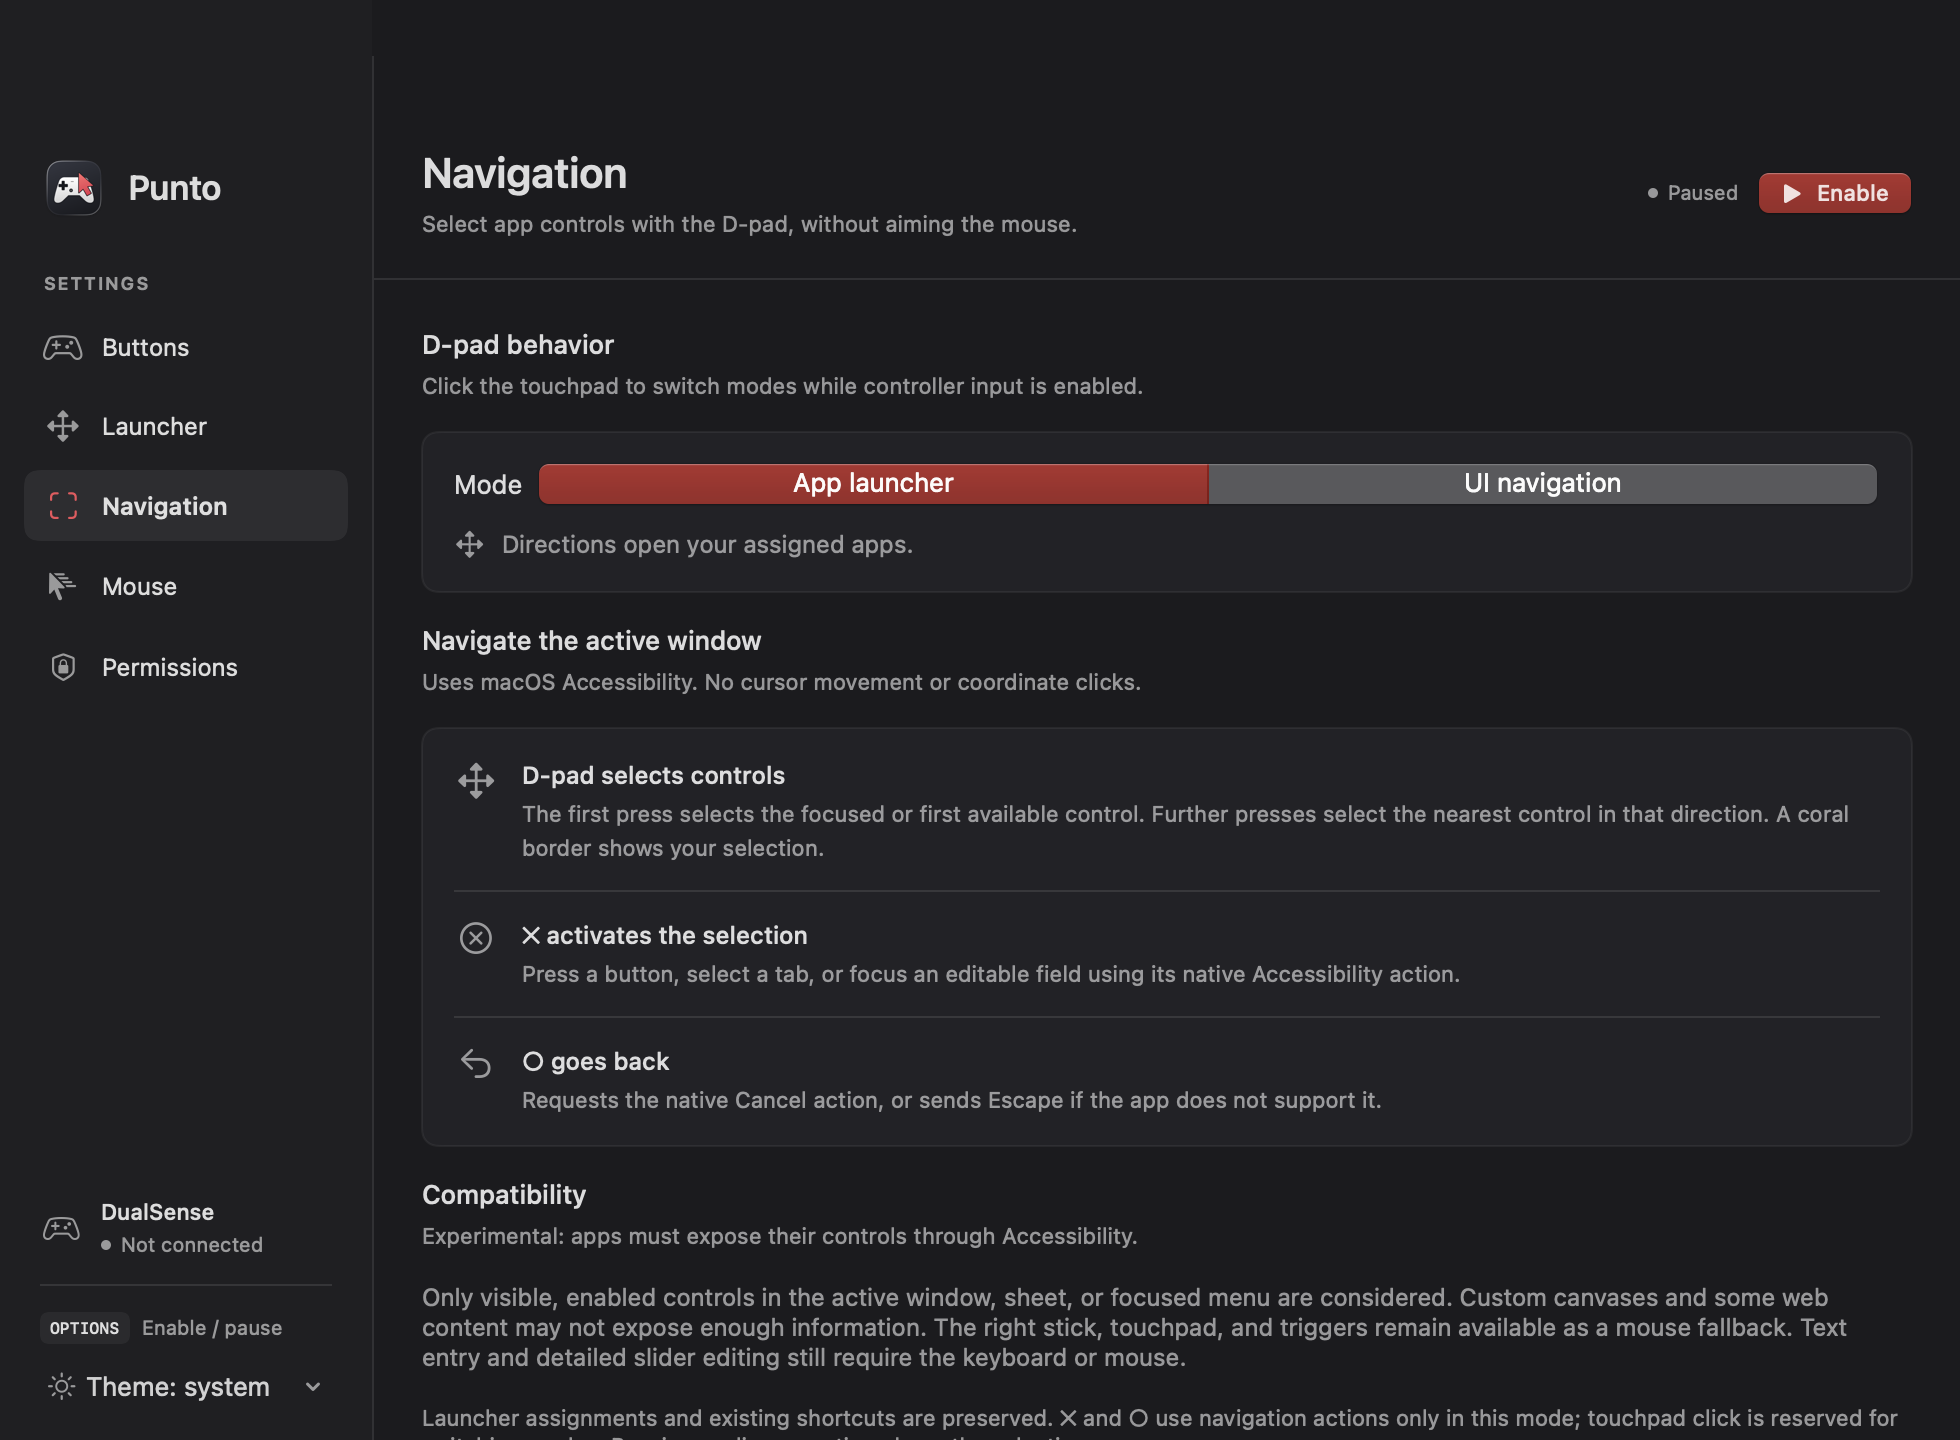
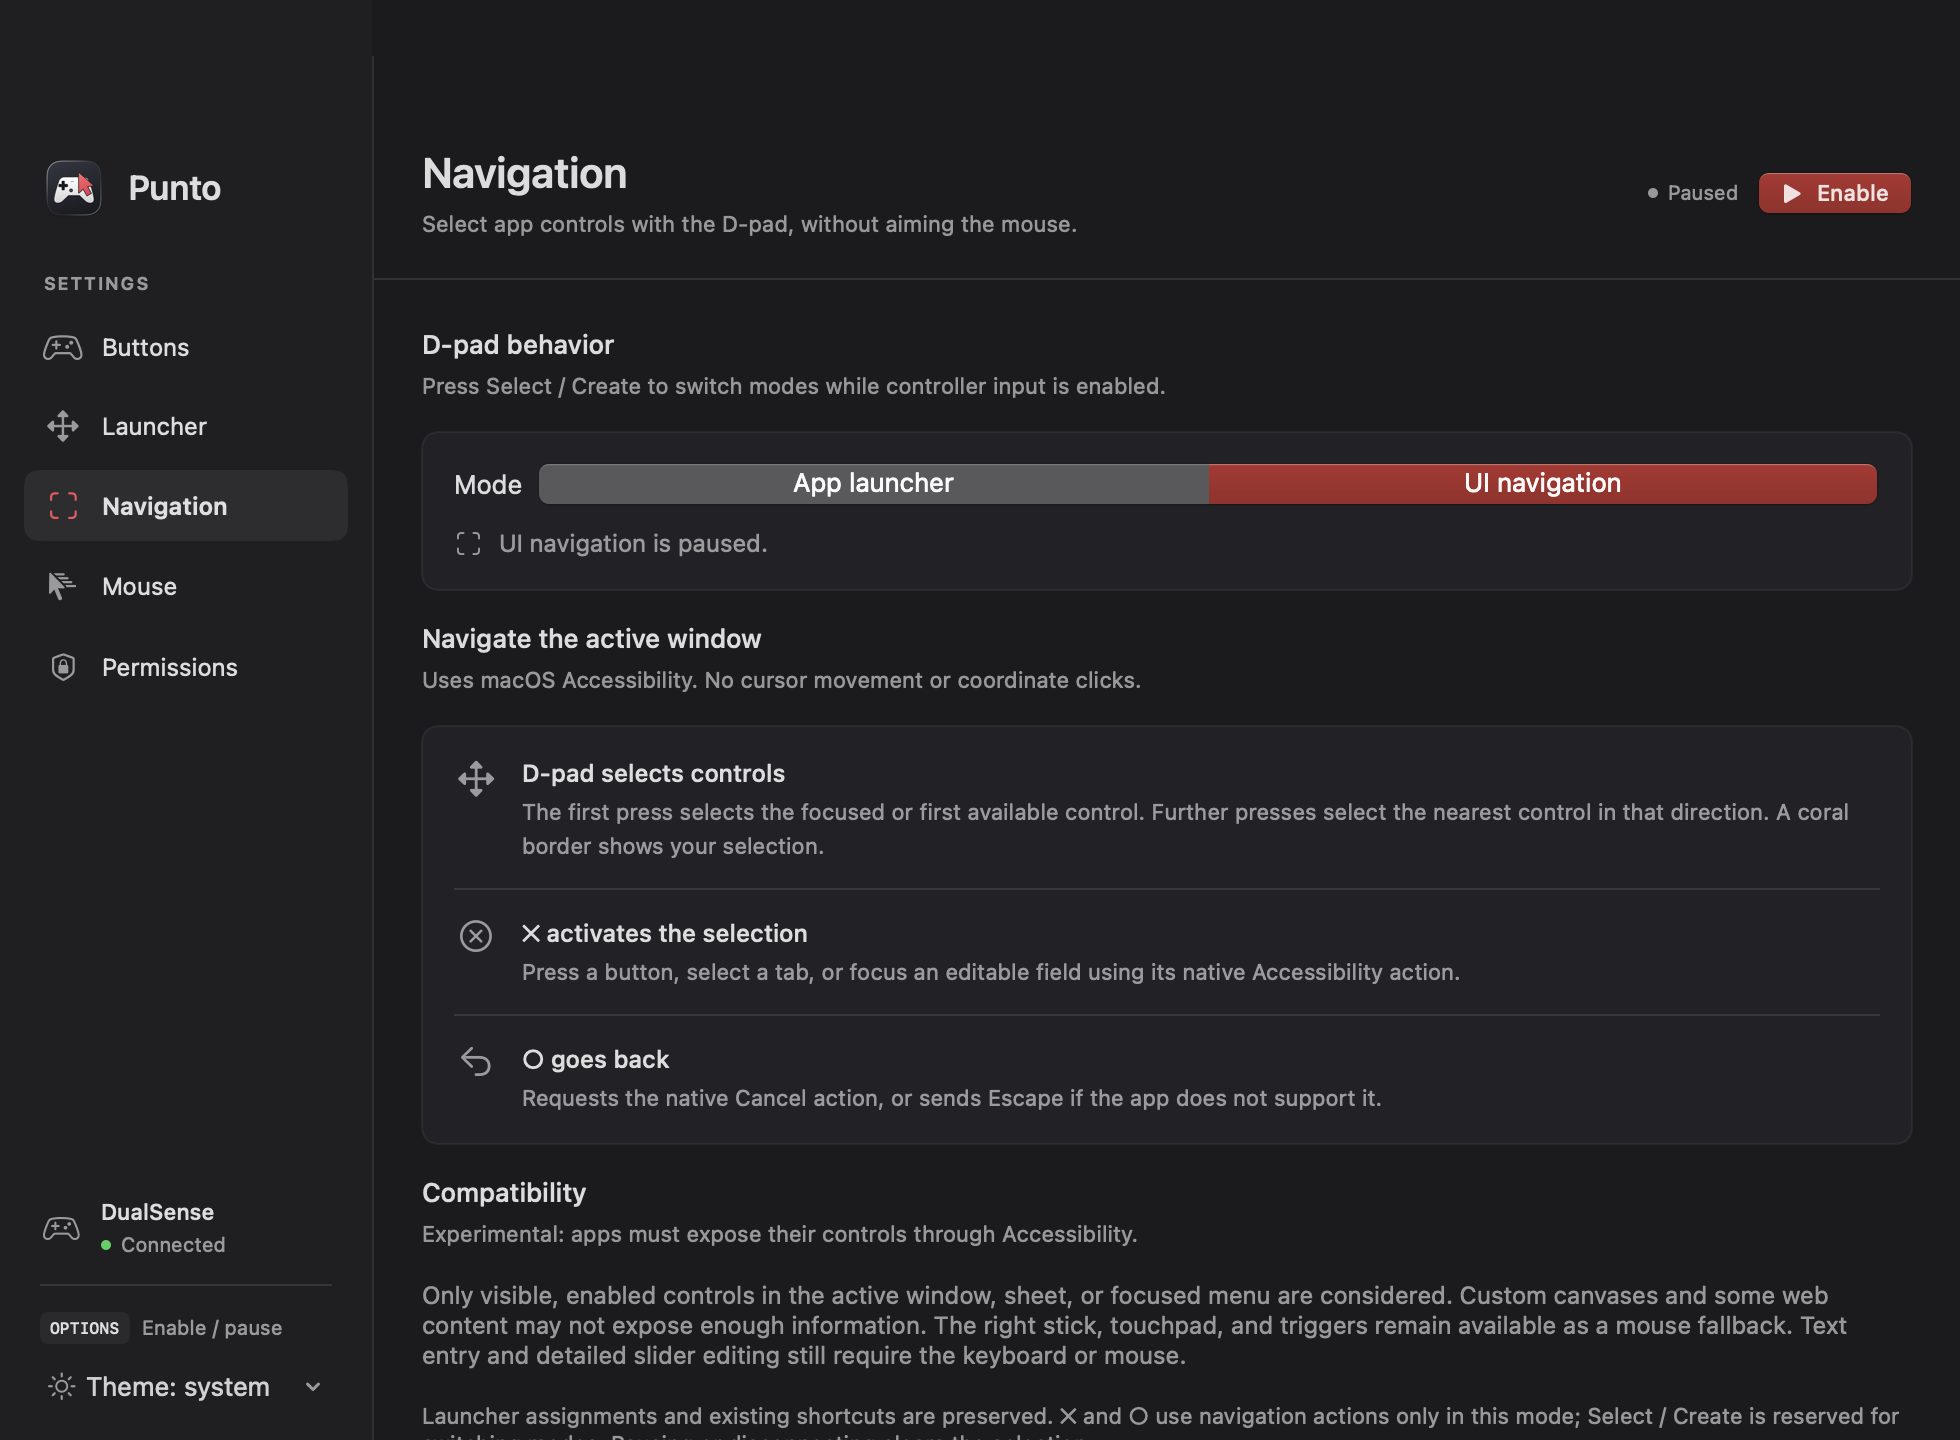
Use Select/Create to switch launcher and UI navigation modes

diff --git a/UI.swift b/UI.swift
@@ -322,7 +322,7 @@ private struct SettingsView: View {
             Divider()
             HStack(spacing: 8) {
                 Image(systemName: "info.circle").foregroundColor(.secondary)
-                Text("D-pad → Launcher / Navigation · Touchpad click → switch mode · Options → enable / pause")
+                Text("D-pad → Launcher / Navigation · Select / Create → switch mode · Options → enable / pause")
                     .font(.system(size: 10)).foregroundColor(.secondary)
                 Spacer(minLength: 0)
                 Button { showHelp.toggle() } label: { Image(systemName: "questionmark.circle").foregroundColor(.secondary) }.buttonStyle(.plain)
@@ -345,7 +345,7 @@ private struct SettingsView: View {
         }
     }
     @ViewBuilder private func buttonRow(_ setting: ButtonSetting) -> some View {
-        if setting.id == 5 || setting.id == 13 || (model.uiNavigationEnabled && (setting.id == 1 || setting.id == 2)) {
+        if setting.id == 5 || setting.id == 8 || (model.uiNavigationEnabled && (setting.id == 1 || setting.id == 2)) {
             HStack(spacing: 12) {
                 HStack(spacing: 9) {
                     Text(setting.glyph).font(.system(size: 11, weight: .medium)).foregroundColor(.secondary)
@@ -353,7 +353,7 @@ private struct SettingsView: View {
                     Text(setting.name).font(.system(size: 11, weight: .medium))
                 }.frame(width: 180, alignment: .leading)
                 Label(setting.primary, systemImage: setting.id == 5 ? "arrow.up.arrow.down" : setting.id == 2 ? "arrow.uturn.backward" : "viewfinder").font(.system(size: 11)).frame(maxWidth: .infinity, alignment: .leading)
-                Text(setting.id == 5 ? "Hold R1" : setting.id == 13 ? "Reserved" : "Navigation mode").font(.system(size: 11)).foregroundColor(.secondary).frame(maxWidth: .infinity, alignment: .leading)
+                Text(setting.id == 5 ? "Hold R1" : setting.id == 8 ? "Reserved" : "Navigation mode").font(.system(size: 11)).foregroundColor(.secondary).frame(maxWidth: .infinity, alignment: .leading)
             }.padding(.horizontal, 14).padding(.vertical, 11)
         } else {
         HStack(spacing: 12) {
@@ -441,7 +441,7 @@ private struct SettingsView: View {
     }
     private var navigationSettings: some View {
         VStack(alignment: .leading, spacing: 16) {
-            heading("D-pad behavior", detail: "Click the touchpad to switch modes while controller input is enabled.")
+            heading("D-pad behavior", detail: "Press Select / Create to switch modes while controller input is enabled.")
             VStack(alignment: .leading, spacing: 12) {
                 Picker("Mode", selection: Binding(get: { model.uiNavigationEnabled }, set: { model.controller.setUINavigationEnabled($0); model.refresh() })) {
                     Text("App launcher").tag(false)
@@ -461,7 +461,7 @@ private struct SettingsView: View {
             heading("Compatibility", detail: "Experimental: apps must expose their controls through Accessibility.")
             Text("Only visible, enabled controls in the active window, sheet, or focused menu are considered. Custom canvases and some web content may not expose enough information. The right stick, touchpad, and triggers remain available as a mouse fallback. Text entry and detailed slider editing still require the keyboard or mouse.")
                 .font(.system(size: 12)).foregroundColor(.secondary)
-            Text("Launcher assignments and existing shortcuts are preserved. ✕ and ○ use navigation actions only in this mode; touchpad click is reserved for switching modes. Pausing or disconnecting clears the selection.")
+            Text("Launcher assignments and existing shortcuts are preserved. ✕ and ○ use navigation actions only in this mode; Select / Create is reserved for switching modes. Pausing or disconnecting clears the selection.")
                 .font(.system(size: 11)).foregroundColor(.secondary)
         }
     }

diff --git a/main.m b/main.m
@@ -37,7 +37,7 @@ static void hold_event(int index,HoldEvent event){[currentApp holdEvent:index ev
 - (NSString *)pathKey:(NSInteger)index {return [NSString stringWithFormat:@"app%ld",(long)index];}
 - (NSString *)shortcutKey:(NSInteger)index {return [NSString stringWithFormat:@"shortcut%ld",(long)index];}
 - (NSString *)holdKey:(NSInteger)index {return [NSString stringWithFormat:@"holdShortcut%ld",(long)index];}
-- (BOOL)validButton:(NSInteger)index {return index>=0&&index<19&&index!=9&&index!=5&&index!=13;}
+- (BOOL)validButton:(NSInteger)index {return index>=0&&index<19&&index!=9&&index!=5&&index!=8;}
 - (void)applicationDidFinishLaunching:(NSNotification *)note {
     (void)note;currentApp=self;
     NSUserDefaults *d=NSUserDefaults.standardUserDefaults;PadMacMigrateShortcuts(d);
@@ -76,7 +76,7 @@ static void hold_event(int index,HoldEvent event){[currentApp holdEvent:index ev
 }
 - (NSDictionary *)settingsSnapshot {
     NSUserDefaults *d=NSUserDefaults.standardUserDefaults;
-    NSArray *names=@[@"Square",@"Cross",@"Circle",@"Triangle",@"Left bumper · L1",@"Right bumper · R1",@"Left trigger · L2",@"Right trigger · R2",@"Create",@"Options",@"Left stick · L3",@"Right stick · R3",@"PS button",@"Touchpad click",@"Mute",@"D-pad up",@"D-pad right",@"D-pad down",@"D-pad left"];
+    NSArray *names=@[@"Square",@"Cross",@"Circle",@"Triangle",@"Left bumper · L1",@"Right bumper · R1",@"Left trigger · L2",@"Right trigger · R2",@"Select / Create",@"Options",@"Left stick · L3",@"Right stick · R3",@"PS button",@"Touchpad click",@"Mute",@"D-pad up",@"D-pad right",@"D-pad down",@"D-pad left"];
     NSArray *glyphs=@[@"□",@"✕",@"○",@"△",@"L1",@"R1",@"L2",@"R2",@"≡",@"…",@"L3",@"R3",@"PS",@"▭",@"◌",@"↑",@"→",@"↓",@"←"];
     NSMutableArray *rows=[NSMutableArray new];
     for(int i=0;i<19;i++){
@@ -91,11 +91,11 @@ static void hold_event(int index,HoldEvent event){[currentApp holdEvent:index ev
         if(action==12)primary=PadMacShortcutLabel(shortcut)?:@"Record shortcut";
         if(action==11)primary=path.length?[NSFileManager.defaultManager displayNameAtPath:path]:@"Choose application";
         if(i==5){action=13;primary=@"Right stick → scroll";}
-        if(i==13){action=14;primary=@"Toggle UI navigation";}
+        if(i==8){action=14;primary=@"Toggle UI navigation";}
         if(self.navigationMode&&i==1){action=15;primary=@"Activate selection";}
         if(self.navigationMode&&i==2){action=16;primary=@"Back / Escape";}
         NSMutableDictionary *row=[@{@"id":@(i),@"name":names[i],@"glyph":glyphs[i],@"group":group,@"action":@(action),@"primary":primary} mutableCopy];
-        if(i!=5&&i!=13&&!(self.navigationMode&&(i==1||i==2))&&hold[@"label"])row[@"hold"]=PadMacShortcutLabel(hold);
+        if(i!=5&&i!=8&&!(self.navigationMode&&(i==1||i==2))&&hold[@"label"])row[@"hold"]=PadMacShortcutLabel(hold);
         if(action==11&&path.length)row[@"appPath"]=path;
         [rows addObject:row];
     }
@@ -150,7 +150,7 @@ static void hold_event(int index,HoldEvent event){[currentApp holdEvent:index ev
 }
 - (BOOL)handleButton:(int)index pressed:(BOOL)pressed {
     if(index<0){longpress_cancel(hold_event);[self hideLauncher];self.uiNavigation.active=NO;return YES;}
-    if(index==13){if(pressed)[self setUINavigationEnabled:!self.navigationMode];return YES;}
+    if(index==8){if(pressed)[self setUINavigationEnabled:!self.navigationMode];return YES;}
     if(self.navigationMode&&(index>=15||index==1||index==2)){
         self.uiNavigation.active=input_enabled()&&AXIsProcessTrusted();
         if(pressed){

diff --git a/tests/navigation-ui.m b/tests/navigation-ui.m
@@ -25,7 +25,7 @@ int main(void){@autoreleasepool{
     [NSApplication.sharedApplication setActivationPolicy:NSApplicationActivationPolicyAccessory];
     NSUserDefaults *defaults=NSUserDefaults.standardUserDefaults;
     NSDictionary *original=[defaults volatileDomainForName:NSArgumentDomain];
-    [defaults setVolatileDomain:@{@"launcherApps0":@[@"demo-app",@""],@"action1":@11,@"app1":@"cross-app",@"action2":@11,@"app2":@"circle-app",@"action13":@11,@"app13":@"old-touchpad-app"} forName:NSArgumentDomain];
+    [defaults setVolatileDomain:@{@"launcherApps0":@[@"demo-app",@""],@"action1":@11,@"app1":@"cross-app",@"action2":@11,@"app2":@"circle-app",@"action8":@11,@"app8":@"old-select-app",@"action13":@11,@"app13":@"touchpad-app"} forName:NSArgumentDomain];
     NavigationTestApp *app=[NavigationTestApp new];NavigationSpy *spy=[NavigationSpy new];app.uiNavigation=spy;currentApp=app;
     input_button_handler(handle_button);input_enable(true);
     [app setUINavigationEnabled:YES];
@@ -34,16 +34,17 @@ int main(void){@autoreleasepool{
     [app handleButton:1 pressed:YES];[app handleButton:1 pressed:NO];assert(spy.activations==1);
     [app handleButton:2 pressed:YES];[app handleButton:2 pressed:NO];assert(spy.backs==1&&!app.launchedPath);
     [app handleButton:5 pressed:YES];assert(input_scroll_active());[app handleButton:5 pressed:NO];
-    [app handleButton:13 pressed:YES];assert(!app.navigationMode&&!input_scroll_active());
-    [app handleButton:13 pressed:NO];assert(!app.navigationMode);
+    [app handleButton:8 pressed:YES];assert(!app.navigationMode&&!input_scroll_active());
+    [app handleButton:8 pressed:NO];assert(!app.navigationMode);
     [app handleButton:1 pressed:YES];assert([app.launchedPath isEqual:@"cross-app"]);
     [app handleButton:15 pressed:YES];assert(app.launcherPanel.isVisible&&[app.launchedPath isEqual:@"demo-app"]);
-    [app handleButton:13 pressed:YES];assert(app.navigationMode&&!app.launcherPanel.isVisible);
-    assert([defaults integerForKey:@"action13"]==11&&[[defaults stringForKey:@"app13"] isEqual:@"old-touchpad-app"]);
-    assert(![app validButton:13]);
+    [app handleButton:8 pressed:YES];assert(app.navigationMode&&!app.launcherPanel.isVisible);
+    assert([defaults integerForKey:@"action8"]==11&&[[defaults stringForKey:@"app8"] isEqual:@"old-select-app"]);
+    assert(![app validButton:8]&&[app validButton:13]);
+    [app handleButton:13 pressed:YES];assert([app.launchedPath isEqual:@"touchpad-app"]&&app.navigationMode);
     input_enable(false);assert(!spy.active);
     assert([[app settingsSnapshot][@"uiNavigation"] boolValue]);
     input_stop();input_button_handler(NULL);currentApp=nil;
     [defaults setVolatileDomain:original?:@{} forName:NSArgumentDomain];
-    puts("PASS: four-direction routing, activation/back, no shortcut leakage, touchpad mode switching, launcher restoration, pause and preserved assignments");
+    puts("PASS: four-direction routing, activation/back, no shortcut leakage, Select/Create mode switching and customizable touchpad, launcher restoration, pause and preserved assignments");
 }return 0;}

diff --git a/docs/DEVELOPMENT.md b/docs/DEVELOPMENT.md
@@ -105,7 +105,7 @@ Apps previously assigned to D-pad buttons are migrated into the first slot. Prev
 
 ### UI navigation (experimental)
 
-Select **Navigation → UI navigation**, or press **touchpad click** while controller input is enabled. Mode selection persists in `uiNavigation`; controller input still starts paused.
+Select **Navigation → UI navigation**, or press **Select / Create** (the small button to the left of the touchpad) while controller input is enabled. Mode selection persists in `uiNavigation`; controller input still starts paused.
 
 - The D-pad selects accessible controls in the frontmost app’s focused window, modal sheet, or focused menu. The first press selects the focused control if available, otherwise the first discovered control.
 - Subsequent presses rank element centers in a directional cone, favoring the same row or column. At a boundary the selection remains in place; it does not wrap.
@@ -116,7 +116,7 @@ Select **Navigation → UI navigation**, or press **touchpad click** while contr
 - Tree discovery runs on a serial background queue, capped at 2,000 elements and a 300 ms traversal budget, with 25 ms per-attribute messaging timeouts. Native actions have a separate 500 ms timeout. A single remote call may slightly exceed the traversal budget.
 - A lighter 250 ms poll tracks the selection. Activation rescans and revalidates the element, app, and window; stale elements are rejected rather than blindly clicked. Selection is retained if the control remains visible after activation. Some providers return an error even after dispatching an action; ambiguous results are shown as “Action requested” and are never retried automatically.
 - An eight-command queue preserves rapid presses. App/window changes discard queued commands. Generation checks invalidate pending actions on pause, disconnect, permission loss, or mode changes.
-- Switching modes releases held mouse buttons/keys and cancels long presses. Existing launcher, touchpad, ✕, and ○ assignments remain stored. Touchpad click is reserved; ✕ and ○ regain normal assignments outside navigation mode.
+- Switching modes releases held mouse buttons/keys and cancels long presses. Existing launcher, Select/Create, ✕, and ○ assignments remain stored. Select/Create is reserved; touchpad click is customizable; ✕ and ○ regain normal assignments outside navigation mode.
 - The right stick, touchpad movement, R1 scrolling, and trigger clicks remain available as a mouse fallback.
 
 This is not universal semantic navigation: app Accessibility providers determine coverage, grouping, visibility, and action support. Custom canvases and some browser content are incomplete. Text entry, complex slider editing, virtualized lists, and automatic scrolling to off-screen controls are not implemented. No window content or discovered control labels are logged or persisted by the runtime.
@@ -172,7 +172,7 @@ The fixture inspects and acts **only on its own window**, even if another app be
 - [ ] Tap/hold behavior and pausing before/after the threshold.
 - [ ] Automatic launcher opening, second slot, direction changes, and timeout.
 - [ ] No normal ✕/○ shortcut while the overlay is visible.
-- [ ] Touchpad click switches launcher/navigation without running its saved assignment.
+- [ ] Select/Create switches launcher/navigation without running its saved assignment; touchpad click runs its configured action.
 - [ ] Navigation selects controls spatially and activates them in the intended target apps.
 - [ ] The border does not take focus, intercept clicks, or appear in the Dock.
 - [ ] App/window changes, pause, disconnect, and permission loss clear the selection.

diff --git a/README.md b/README.md
@@ -70,7 +70,7 @@ Adjust cursor speed, stick deadzone, and scroll sensitivity. Scroll speed is ind
 
 ### Navigate apps like a game menu
 
-Choose **Navigation → UI navigation**, or click the controller’s touchpad while input is enabled. The D-pad moves a coral selection border between accessible controls; **✕ activates** and **○ goes back**. Click the touchpad again to restore the launcher.
+Choose **Navigation → UI navigation**, or press **Select / Create** (the small button to the left of the touchpad) while input is enabled. The D-pad moves a coral selection border between accessible controls; **✕ activates** and **○ goes back**. Press Select / Create again to restore the launcher.
 
 This feature is **experimental** and uses the app’s native macOS Accessibility elements—not simulated coordinate clicks. Custom canvases and some web content may not expose usable controls. Mouse control remains available as a fallback; text entry still needs a keyboard.
 
@@ -90,7 +90,7 @@ Choose up to **eight applications**, arranged across up, right, down, and left.
 | :--- | :--- |
 | Right stick | Move the cursor |
 | Touchpad | Move the cursor with one finger |
-| **Touchpad click** | Switch between the launcher and UI navigation |
+| **Select / Create** | Switch between the launcher and UI navigation |
 | **R1 + right stick** | Scroll vertically and horizontally |
 | **R2** | Left click; hold to drag |
 | **L2** | Right click; hold to drag |
@@ -133,7 +133,7 @@ Punto always starts paused. Closing settings leaves it running in the menu bar. 
 
 - This is an **in-development** build, not yet distributed with Developer ID signing and notarization.
 - It supports **one controller at a time** and the standard DualSense, not the DualSense Edge.
-- R1, Options, the D-pad, and touchpad click have reserved roles. In UI navigation, ✕ and ○ temporarily replace their normal shortcuts. Saved assignments are preserved.
+- R1, Options, the D-pad, and Select / Create have reserved roles. Touchpad click is customizable. In UI navigation, ✕ and ○ temporarily replace their normal shortcuts. Saved assignments are preserved.
 - Some macOS-reserved combinations may not be recordable or reproducible.
 - The bundle and executable are named **Punto.app** and **Punto**. The original bundle identifier and signing identity are retained to preserve preferences and signing continuity.
 - If upgrading from the old bundle path, macOS may require you to add Punto again under Accessibility.
